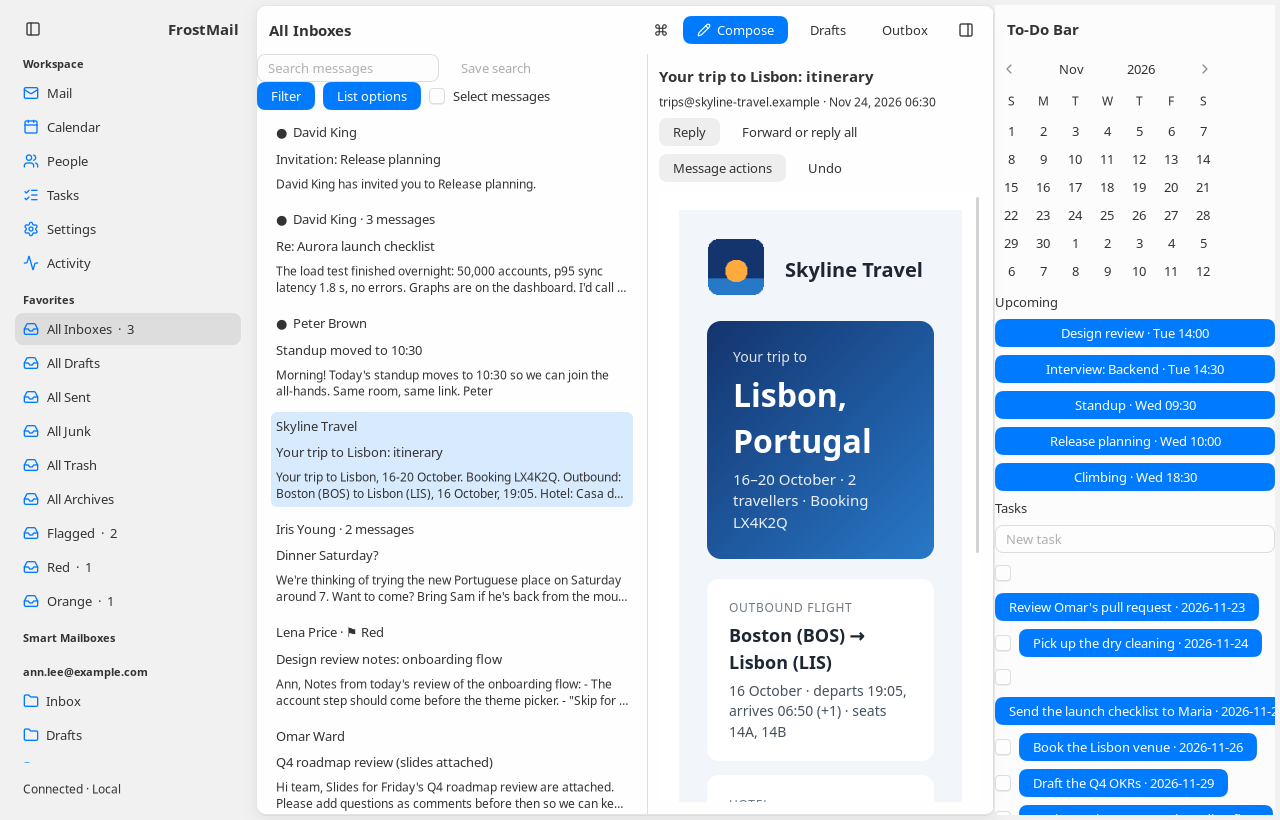
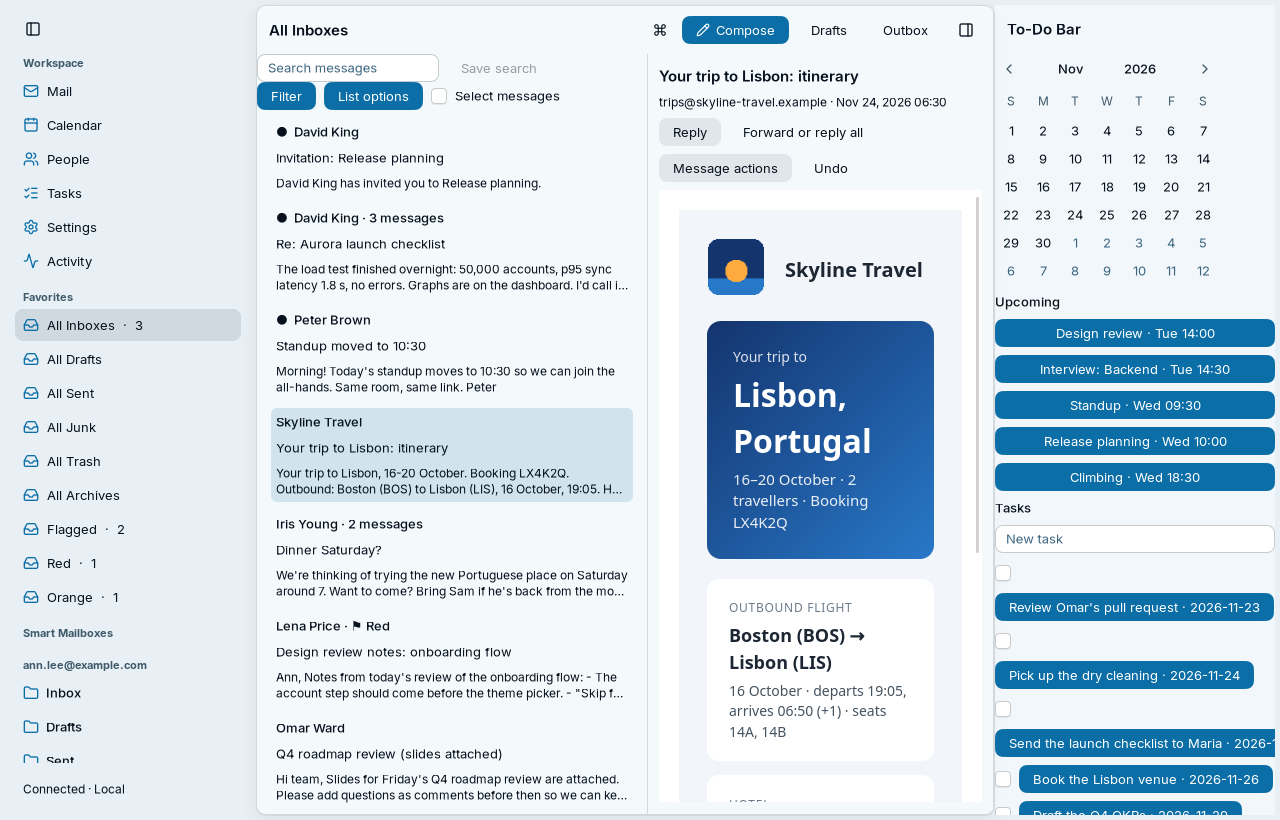
feat(nsgo): draw the client in the Frostyard themes
Plan 0016's Phase 1, FrostMail's part. The NSGo client drew NSGo's gray
and blue. It now calls the kit's Apply and sits in its Frame
(frostyard/frostui#72, workspaceui v0.2.0): Frostyard on a dark desktop
and Frostyard light on a light one, set in the bundled Inter, with the
app's name left to the system's title bar.

The General pane has a choice of System, Light or Dark, kept in the
device's storage on a desktop; Lodge sets the web build's appearance.

The 14 kept pictures are made again in Frostyard light and 6 are added in
Frostyard; a tour names its appearance, so a run does not follow its
host's. Nothing of the window's layout changes.

Plan 0016 records Phase 0.5 as done, and Phase 1's kit and FrostMail
parts.

diff --git a/cmd/frostmail-nsgo/main.go b/cmd/frostmail-nsgo/main.go
@@ -66,12 +66,22 @@ type workspace struct {
 	undo            *mail.Undo
 	overlay         *core.Signal[*panel]
 	acting          *core.Signal[bool]
+	appearance      *core.Signal[core.Appearance]
 }
 
 func invalidate(s *core.Signal[int]) { s.Set(s.GetUntracked() + 1) }
 
 func root(cx *core.Scope) core.Node {
 	cx.SetTitle("FrostMail")
+	// The Frostyard look and the bundled Inter (plan 0016, rule 1). A font
+	// the platform refuses leaves the text in the system's face.
+	_ = workspaceui.Apply(cx)
+	appearance := core.AppearanceSystem
+	if desktopServer {
+		// Lodge sets the web build's appearance; a desktop keeps its own.
+		appearance = savedAppearance(cx)
+		cx.SetAppearance(appearance)
+	}
 	target, err := platformTarget()
 	if err != nil {
 		return workspaceui.Page(core.Text{Content: err.Error()})
@@ -79,6 +89,7 @@ func root(cx *core.Scope) core.Node {
 	ctx, cancel := context.WithCancel(context.Background())
 	w := &workspace{cx: cx, ctx: ctx, events: live.NewEvents(), source: mail.Source{Kind: mail.AllInboxes}, selected: core.NewSignal(cx, "all-inboxes"), state: core.NewSignal(cx, 0), rows: core.NewSignal(cx, 0), status: core.NewSignal(cx, "Connecting to maild…"), problem: core.NewSignal(cx, ""), opened: core.NewSignal(cx, int64(0)), reader: core.NewSignal(cx, (*messagePage)(nil))}
 	w.currentMessage = core.NewSignal(cx, (*api.MessageSummary)(nil))
+	w.appearance = core.NewSignal(cx, appearance)
 	w.watchReader()
 	w.showPhotos = core.NewSignal(cx, true)
 	w.textScale = core.NewSignal(cx, float32(1))
@@ -206,7 +217,7 @@ func root(cx *core.Scope) core.Node {
 				})
 			}
 		})}}
-	return core.View{Style: ui.FillRest, Children: []core.Node{dragdrop.Area{Children: []core.Node{shell}}, ui.Toasts{Toaster: w.toaster, Placement: ui.ToastBottomEnd}, core.Dynamic(func(cx *core.Scope) core.Node {
+	return workspaceui.Frame(dragdrop.Area{Children: []core.Node{shell}}, ui.Toasts{Toaster: w.toaster, Placement: ui.ToastBottomEnd}, core.Dynamic(func(cx *core.Scope) core.Node {
 		if w.switching.Get() {
 			dlg := w.dialog("Changing mail server…", nil)
 			dlg.Footer = nil
@@ -217,7 +228,7 @@ func root(cx *core.Scope) core.Node {
 			return p.render(cx)
 		}
 		return nil
-	})}}
+	}))
 }
 
 func (w *workspace) sections() []ui.SidebarSection {

diff --git a/cmd/frostmail-nsgo/workspace_test.go b/cmd/frostmail-nsgo/workspace_test.go
@@ -65,6 +65,14 @@ func fixtureWithSMTP(t *testing.T, smtp string) *nsgotest.App {
 // fixtureSized starts the client in a window of the given size.
 func fixtureSized(t *testing.T, smtp string, width, height core.Points) *nsgotest.App {
 	t.Helper()
+	return fixtureLook(t, smtp, width, height, false)
+}
+
+// fixtureLook starts the client in a window of the given size, in the dark
+// appearance or the light one: the test names it, so that a run does not
+// follow its host's.
+func fixtureLook(t *testing.T, smtp string, width, height core.Points, dark bool) *nsgotest.App {
+	t.Helper()
 	dir, err := os.MkdirTemp("", "fm-ui-")
 	if err != nil {
 		t.Fatal(err)
@@ -104,13 +112,33 @@ func fixtureSized(t *testing.T, smtp string, width, height core.Points) *nsgotes
 		t.Fatal(err)
 	}
 	t.Cleanup(func() { _ = daemon.Process.Kill(); _ = daemon.Wait() })
-	a := nsgotest.Start(t, root, nsgotest.Size(width, height), nsgotest.Environment(core.Environment{OS: "linux", Idiom: core.IdiomDesktop, PixelRatio: 1}))
+	a := nsgotest.Start(t, root, nsgotest.Size(width, height), nsgotest.Environment(core.Environment{OS: "linux", Idiom: core.IdiomDesktop, PixelRatio: 1, Dark: dark}))
 	// A compact window (under 720) hides the navigation and its status line:
 	// its caller waits for what it shows instead.
 	if width >= 720 {
 		a.WaitFor("text:Connected · Local", 20*time.Second)
 	}
 	return a
+}
+
+// The General pane's choice of appearance shows at once and is kept on the
+// device.
+func TestAppearanceChoiceIsKept(t *testing.T) {
+	a := fixtureWorkspace(t)
+	a.Press("label:Settings")
+	a.Press("role:tab General")
+	a.WaitFor("role:tab Dark", 8*time.Second)
+	a.Press("role:tab Dark")
+	if a.Appearance != core.AppearanceDark {
+		t.Fatalf("the app asked for appearance %v after Dark, want dark", a.Appearance)
+	}
+	if got, _ := a.Storage().GetItem("appearance"); got != "dark" {
+		t.Fatalf("the kept appearance is %q, want dark", got)
+	}
+	a.Press("role:tab System")
+	if _, kept := a.Storage().GetItem("appearance"); kept || a.Appearance != core.AppearanceSystem {
+		t.Fatalf("after System the device keeps a choice (%v) or the app asks for %v", kept, a.Appearance)
+	}
 }
 
 func TestMailboxReadsFixture(t *testing.T) {

diff --git a/cmd/frostmail-nsgo/pictures_test.go b/cmd/frostmail-nsgo/pictures_test.go
@@ -61,6 +61,42 @@ func TestPicturesOfTheModules(t *testing.T) {
 	}
 }
 
+// The same views in Frostyard, the dark theme: the three panes with a
+// message, a menu, a confirmation, compose, the Calendar and the narrow
+// message.
+func TestPicturesInDark(t *testing.T) {
+	a := fixtureLook(t, "", 1280, 820, true)
+	const subject = "Your trip to Lisbon: itinerary"
+	a.WaitFor("label:"+subject, 8*time.Second)
+	a.Press("label:" + subject)
+	a.WaitFor("label:Message body", 8*time.Second)
+	a.Screenshot("dark-mail-message")
+	a.Press("label:Message actions")
+	a.WaitFor("label:Delete message", 5*time.Second)
+	a.Screenshot("dark-mail-message-actions")
+	a.Press("label:Delete message")
+	a.WaitFor("label:Cancel", 5*time.Second)
+	a.Screenshot("dark-dialog-confirm")
+	a.Press("label:Cancel")
+	a.Press("label:Calendar")
+	a.WaitUntil(5*time.Second, func() bool { return a.Exists("id:content-header >> text:Calendar") })
+	a.Settle()
+	a.Screenshot("dark-module-Calendar")
+	a.Press("label:Compose")
+	a.WaitFor("label:Subject", 5*time.Second)
+	a.Type("label:Subject", "Lunch on Thursday")
+	a.Screenshot("dark-compose")
+}
+
+func TestPicturesOfANarrowWindowInDark(t *testing.T) {
+	a := fixtureLook(t, "", 620, 820, true)
+	const subject = "Your trip to Lisbon: itinerary"
+	a.WaitFor("label:"+subject, 20*time.Second)
+	a.Press("label:" + subject)
+	a.WaitFor("label:Message body", 8*time.Second)
+	a.Screenshot("dark-narrow-message")
+}
+
 func TestPicturesOfANarrowWindow(t *testing.T) {
 	a := fixtureSized(t, "", 620, 820)
 	const subject = "Your trip to Lisbon: itinerary"

diff --git a/cmd/frostmail-nsgo/appearance.go b/cmd/frostmail-nsgo/appearance.go
@@ -1,0 +1,35 @@
+package main
+
+import "github.com/nsgo-dev/nsgo/core"
+
+// The choice of appearance is this device's, not the account's: it lives in
+// the client's storage, not in maild's settings. No entry is the system's.
+const appearanceKey = "appearance"
+
+func savedAppearance(cx *core.Scope) core.Appearance {
+	switch v, _ := cx.Storage().GetItem(appearanceKey); v {
+	case "light":
+		return core.AppearanceLight
+	case "dark":
+		return core.AppearanceDark
+	}
+	return core.AppearanceSystem
+}
+
+// saveAppearance keeps the choice the General pane made. The kit's control
+// has already shown it.
+func (w *workspace) saveAppearance(a core.Appearance) {
+	w.appearance.Set(a)
+	var err error
+	switch a {
+	case core.AppearanceLight:
+		err = w.cx.Storage().SetItem(appearanceKey, "light")
+	case core.AppearanceDark:
+		err = w.cx.Storage().SetItem(appearanceKey, "dark")
+	default:
+		w.cx.Storage().RemoveItem(appearanceKey)
+	}
+	if err != nil {
+		w.problem.Set(err.Error())
+	}
+}

diff --git a/cmd/frostmail-nsgo/settings.go b/cmd/frostmail-nsgo/settings.go
@@ -147,6 +147,9 @@ func (w *workspace) general(cx *core.Scope) core.Node {
 				}, nil)
 			}))
 		}
+		if desktopServer {
+			nodes = append([]core.Node{field("Appearance", workspaceui.AppearanceChoice{Value: w.appearance.Get, OnChange: w.saveAppearance})}, nodes...)
+		}
 		return workspaceui.Page(nodes...)
 	})
 }

diff --git a/docs/plans/0016-a-shared-look-for-the-nsgo-apps.md b/docs/plans/0016-a-shared-look-for-the-nsgo-apps.md
@@ -3,8 +3,8 @@
 - **Status:** Phase 0 is done (2026-11-24): the owner chose D1 to D4
   ([ADR-0062](../adr/0062-give-the-nsgo-client-the-frostyard-look-from-the-shared-kit.md)),
   the kit is in frostui and tagged, and the three apps build on it. Phase
-  0.5 is in progress: FrostMail's part is built, Frostnotes' is left. No
-  part of the look is built.
+  0.5 is done (2026-11-24). Phase 1 is in progress: the kit's themes are
+  tagged and FrostMail draws them; Frostnotes and PocketGo are left.
 
 This plan brings FrostMail's NSGo client
 ([ADR-0061](../adr/0061-share-the-mail-client-with-nsgo.md)) to the polish
@@ -256,7 +256,7 @@ controls).
   (11) and frostyard/pocketgo#167 (10), which also removed PocketGo's copy
   of the module.
 
-## Phase 0.5 — Live tests in FrostMail and Frostnotes (M)
+## Phase 0.5 — Live tests in FrostMail and Frostnotes (M, done 2026-11-24)
 
 Before any look changes, so that every later phase shows its change as
 pictures.
@@ -320,6 +320,18 @@ pictures.
     the Calendar change from day to day.
   Not built: bounds checks, which wait for the standard's measures
   (Phases 2 and 3).
+- **Frostnotes' part (2026-11-24),** frostyard/frostnotes#277: its suite
+  passes headless and in a GTK window on Xvfb's X11 (12 tests, none
+  skipped), and it keeps 19 pictures of that day's look. 3 of its 4
+  workflows failed in the window at first, each on a difference of NSGo
+  v0.3.0's test host (the app's clock stands still during a wait; a line
+  break typed into a multiline field is dropped; a paste runs headless
+  only), and its tests now allow for them with no change to the app.
+- **Done (2026-11-24).** Both suites pass in a real Linux window on the
+  host and in CI: FrostMail's NSGo client job (#390, #394) and Frostnotes'
+  Verify job (frostyard/frostnotes#277) ran `make nsgo-live` and passed on
+  their pull requests. Each repository holds the "before" pictures of its
+  views: FrostMail's 14 in the commit of #394, Frostnotes' 19 in #277.
 
 ## Phase 1 — Theme, type and the title row (M)
 
@@ -331,6 +343,24 @@ pictures.
 - **Done when:** each app's live suite passes, and its pictures, made
   again in each theme, show Frostyard's colors and Inter with one title
   row; the contrast test passes; PocketGo's pane-width tests pass.
+- **The kit's part (2026-11-24),** frostyard/frostui#72, tagged
+  `workspaceui/v0.2.0`: `Theme`, `Apply`, `Frame`, `ColorsOf` and
+  `AppearanceChoice`, a contrast test of 69 pairs in each theme at 4.5:1
+  or over, the brand left to the system's title bar on Linux, and the
+  compact shell's ground, which Frostnotes' dark narrow picture showed
+  missing. Not carried over from the MyGo kit: the high-contrast values.
+- **FrostMail's part (2026-11-24).** The client calls `Apply`, sits in a
+  `Frame`, and keeps the General pane's choice of System, Light or Dark in
+  the device's storage (a desktop only: Lodge sets the web build's
+  appearance). Its 14 pictures are made again in Frostyard light, and 6
+  are added in Frostyard; they show the themes' colors in the shell, the
+  list, a menu, a dialog and the Calendar, the text in the bundled Inter
+  where Xvfb's own face is another, and the narrow dark window on its
+  ground. One title row is not shown by them: a capture holds the window's
+  content, not the system's title bar; the navigation's head no longer
+  names the app. Not checked: the web build under Lodge and Windows.
+  Still as before, for Phases 3 and 4: every layout, and each row of the
+  control map.
 
 ## Phase 2 — The kit's parts and the gallery (L)
 

diff --git a/docs/design/testing.md b/docs/design/testing.md
@@ -13,7 +13,7 @@
 | DAV and Tasks, recorded | `internal/pimsync/replay_test.go`: Google's and iCloud's CardDAV, CalDAV and Tasks sessions replayed (below) | `make test` |
 | UI | `app/src/**/*.test.ts` (Vitest) | `make ui-test` (nsl) |
 | Desktop app | `internal/desktop/**` with `ui.Tester` against a real maild. `mainwin`'s `TestModulesInBothThemes` draws Mail, Calendar, People and Tasks in Frostyard and Frostyard light; with `FROSTMAIL_SNAPSHOT_DIR` set, it and the other snapshot tests write their PNGs there | `make test` |
-| NSGo client | `cmd/frostmail-nsgo/*_test.go` (build tags `linux` and `integration`): NSGo's `nsgotest` drives the shared client against a real maild on `tools/uifixture`'s showcase, by label, text and test id. 14 workflows (`workspace_test.go`) and 5 picture tours (`pictures_test.go`) | `make nsgo-test`, headless (no pixels) |
+| NSGo client | `cmd/frostmail-nsgo/*_test.go` (build tags `linux` and `integration`): NSGo's `nsgotest` drives the shared client against a real maild on `tools/uifixture`'s showcase, by label, text and test id. 15 workflows (`workspace_test.go`) and 7 picture tours (`pictures_test.go`) | `make nsgo-test`, headless (no pixels) |
 | NSGo client, real window | The same suite in a GTK 4 window with the platform's own input (`TestMain` is `nsgotest.Main`). The tours' `app.Screenshot` calls are PNGs there. 2 workflows skip on a target ([below](#the-nsgo-clients-live-suite)) | `make nsgo-live`, under Xvfb |
 | Desktop app, real windows | `internal/desktop/e2e` (build tag `e2e`): the automation build on fixture mail: the hostile corpus, the reader's script probe (`TestReaderPageRunsNoScript`: 22 ways to run script, counted by the find bar and a canary, once past maild's sanitizer and once through it), a real link click, a forward with an inline image, dragging an event, the reminders window, and on Linux the Server pane's change of mode | `make desktop-e2e`, under Xvfb with xdotool, or on Windows' desktop |
 
@@ -40,10 +40,14 @@ The shared client has one suite, run two ways
   `cmd/frostmail-nsgo/.nsgo/`, so they find the repository with
   `repoRoot`. Pictures go to `cmd/frostmail-nsgo/.nsgo/test/screenshots/linux`,
   which git ignores; CI uploads them as `nsgo-live-pictures`.
-- **The kept pictures,** `cmd/frostmail-nsgo/comparison/linux`: 14 PNGs of
-  the main views (the list, a message, its actions menu, a confirmation,
-  the To-Do Bar, a conversation, compose, the five modules, and the narrow
-  list and message), 1280 by 820 and 620 by 820, taken on Xvfb's X11.
+- **The kept pictures,** `cmd/frostmail-nsgo/comparison/linux`: 20 PNGs.
+  14 are the main views in Frostyard light (the list, a message, its
+  actions menu, a confirmation, the To-Do Bar, a conversation, compose,
+  the five modules, and the narrow list and message), and 6, named
+  `dark-`, are a message, its actions menu, a confirmation, the Calendar,
+  compose and the narrow message in Frostyard. A tour names its appearance
+  (`fixtureLook`), so a run does not follow its host's. They are 1280 by
+  820 and 620 by 820, taken on Xvfb's X11.
   (The first set, of 2026-11-24, was 781 high and in the desktop's font:
   it was taken on a Wayland desktop, as above.) `make nsgo-pictures` takes
   them again. A change of

diff --git a/AGENTS.md b/AGENTS.md
@@ -92,10 +92,12 @@ and [ADR-0062](docs/adr/0062-give-the-nsgo-client-the-frostyard-look-from-the-sh
 look from a kit that FrostMail, Frostnotes and PocketGo share. Phase 0 is
 done (2026-11-24): the kit moved from `frostyard/pocketgo` to
 `github.com/frostyard/frostui/workspaceui` (`workspaceui/v0.1.0`), and the
-three apps build on it. Phase 0.5, live UI tests in a real window with kept
-pictures, is in progress: FrostMail's suite runs in a GTK window
-(`make nsgo-live`) and keeps 14 pictures of today's look; Frostnotes' is
-left. No part of the look is built, and the MyGo client stays the default.
+three apps build on it. Phase 0.5 is done (2026-11-24): FrostMail's and
+Frostnotes' suites run in a real GTK window (`make nsgo-live`) and keep
+their pictures. Phase 1 is in progress: the kit has the Frostyard themes
+(`workspaceui/v0.2.0`), and the client draws them, in Inter, with a saved
+choice of appearance; Frostnotes and PocketGo are left. Nothing of the
+window's layout has changed, and the MyGo client stays the default.
 
 ## Two kinds of agent work
 
@@ -235,7 +237,7 @@ left. No part of the look is built, and the MyGo client stays the default.
   `github.com/frostyard/lodge/kit` v0.6.0, `github.com/frostyard/std` v0.5.0 (direct:
   `problems`; clix needs it too).
 - The NSGo client's own module (`cmd/frostmail-nsgo/go.mod`) also requires
-  `github.com/frostyard/frostui/workspaceui` v0.1.0, the kit it shares with
+  `github.com/frostyard/frostui/workspaceui` v0.2.0, the kit it shares with
   Frostnotes and PocketGo (a module of its own in frostui, tags
   `workspaceui/vX.Y.Z`; frostui's `docs/design/workspaceui.md`), and
   `github.com/nsgo-dev/nsgo` v0.3.0, which frostyard does not own.
